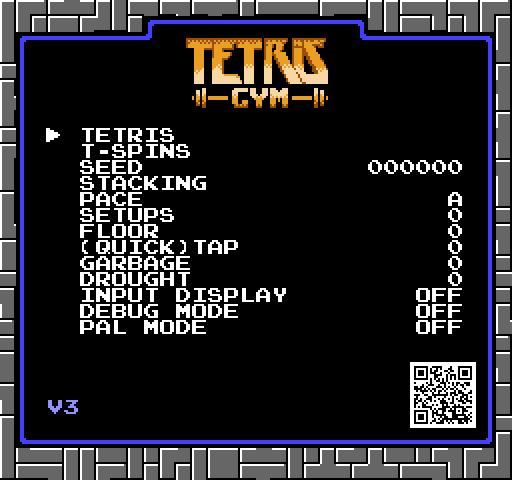
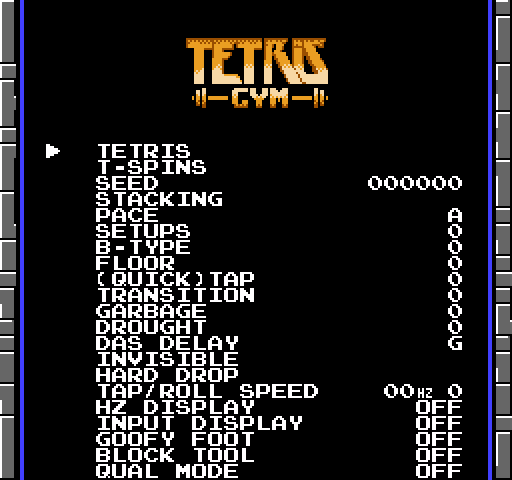
added images for v4

diff --git a/README.md b/README.md
@@ -15,14 +15,22 @@
     * [Stacking](#stacking)
     * [Pace](#pace)
     * [Setups](#setups)
+    * [B-Type](#b-type)
     * [Floor](#floor)
     * [(Quick)Tap](#quicktap)
+    * [Transition](#transition)
     * [Garbage](#garbage)
     * [Drought](#drought)
+    * [DAS Delay](#das-delay)
+    * [Invisible](#invisible) 
+    * [Hard Drop](#hard-drop) 
+* [Hz Display](#hz-display) 
 * [Input Display](#input-display)
-* [Debug Mode](#debug-mode)
+* [Goofy Foot](#goofy-foot)
+* [Block Tool](#block-tool)
     * [Level Editor](#level-editor)
     * [Savestates](#savestates)
+* [Qualifier Mode](#qual-mode)
 * [PAL Mode](#pal-mode)
 * [Bugfixes](#bugfixes)
 * [Resources](#resources)
@@ -47,7 +55,7 @@ Some trainers have additional configuration values; use left and right to change
 
 ![Tetris](/screens/levelselect.png)
 
-Same gameplay as Type-A, with some improvements: no score cap, no rocket, no curtain, always next box, better pause, extended level select.
+Same gameplay as A-Type, with some improvements: no score cap, no rocket, no curtain, always next box, better pause, extended level select.
 
 ### T-Spins
 
@@ -111,6 +119,10 @@ Several preset playfields for practising different types of tucks and spins.
 6. L / J Spintuck
 7. L / J Doubletuck
 
+### B-Type
+
+![B-Type](/screens/floor.png)
+
 ### Floor
 
 ![Floor](/screens/floor.png)
@@ -124,6 +136,10 @@ Setting the height to zero will result in a game mode with burns disabled.
 ![Tap](/screens/tap.png)
 
 For practising tapping and quicktapping pieces over towers. 0-G will have a tower on the left of the screen and H-W will have a tower to the right.
+
+### Transition
+
+![Transition](/screens/transition.png)
 
 ### Garbage
 
@@ -143,18 +159,27 @@ Create artificially inflated droughts. Increasing the value causes less I pieces
 
 0 = normal gameplay I = no line pieces
 
+### DAS Delay
+
+### Invisible
+
+![Invisible](/screens/invisible.png)
+
+### Hard Drop
+
+![Hard Drop](/screens/harddrop.png)
+
+### Hz Display
+
+![Hz Display](/screens/hz.png)
+
 ### Input Display
 
 ![Controller](/screens/controller.png)
 
-In debug mode
+## Block Tool
 
-* Select + Right  
-        Toggle controller input display
-
-## Debug Mode
-
-![Controller](/screens/debug.png)
+![Block](/screens/block.png)
 
 Allow more fine control over aspects of gameplay.
 
@@ -166,7 +191,7 @@ When enabled, press start to go into debug mode.
 
 * DPad  
         Move around  
-* Select + Left  
+* Select + Left/Right  
         Switch between piece and playfield editors
 
 In piece mode
@@ -206,6 +231,12 @@ Savestates allow you to save and reload playfields as many times as you want. Th
 Savestates require SRAM to work. Tested and working on Everdrive / Emulator / MiSTerFPGA.
 
 Combined with the level editor, savestates are effective for practising specific scenarios.
+
+## Qual Mode
+
+![Legal](/screens/legal.png)
+
+![Rocket](/screens/rocket.png)
 
 ## PAL Mode
 
